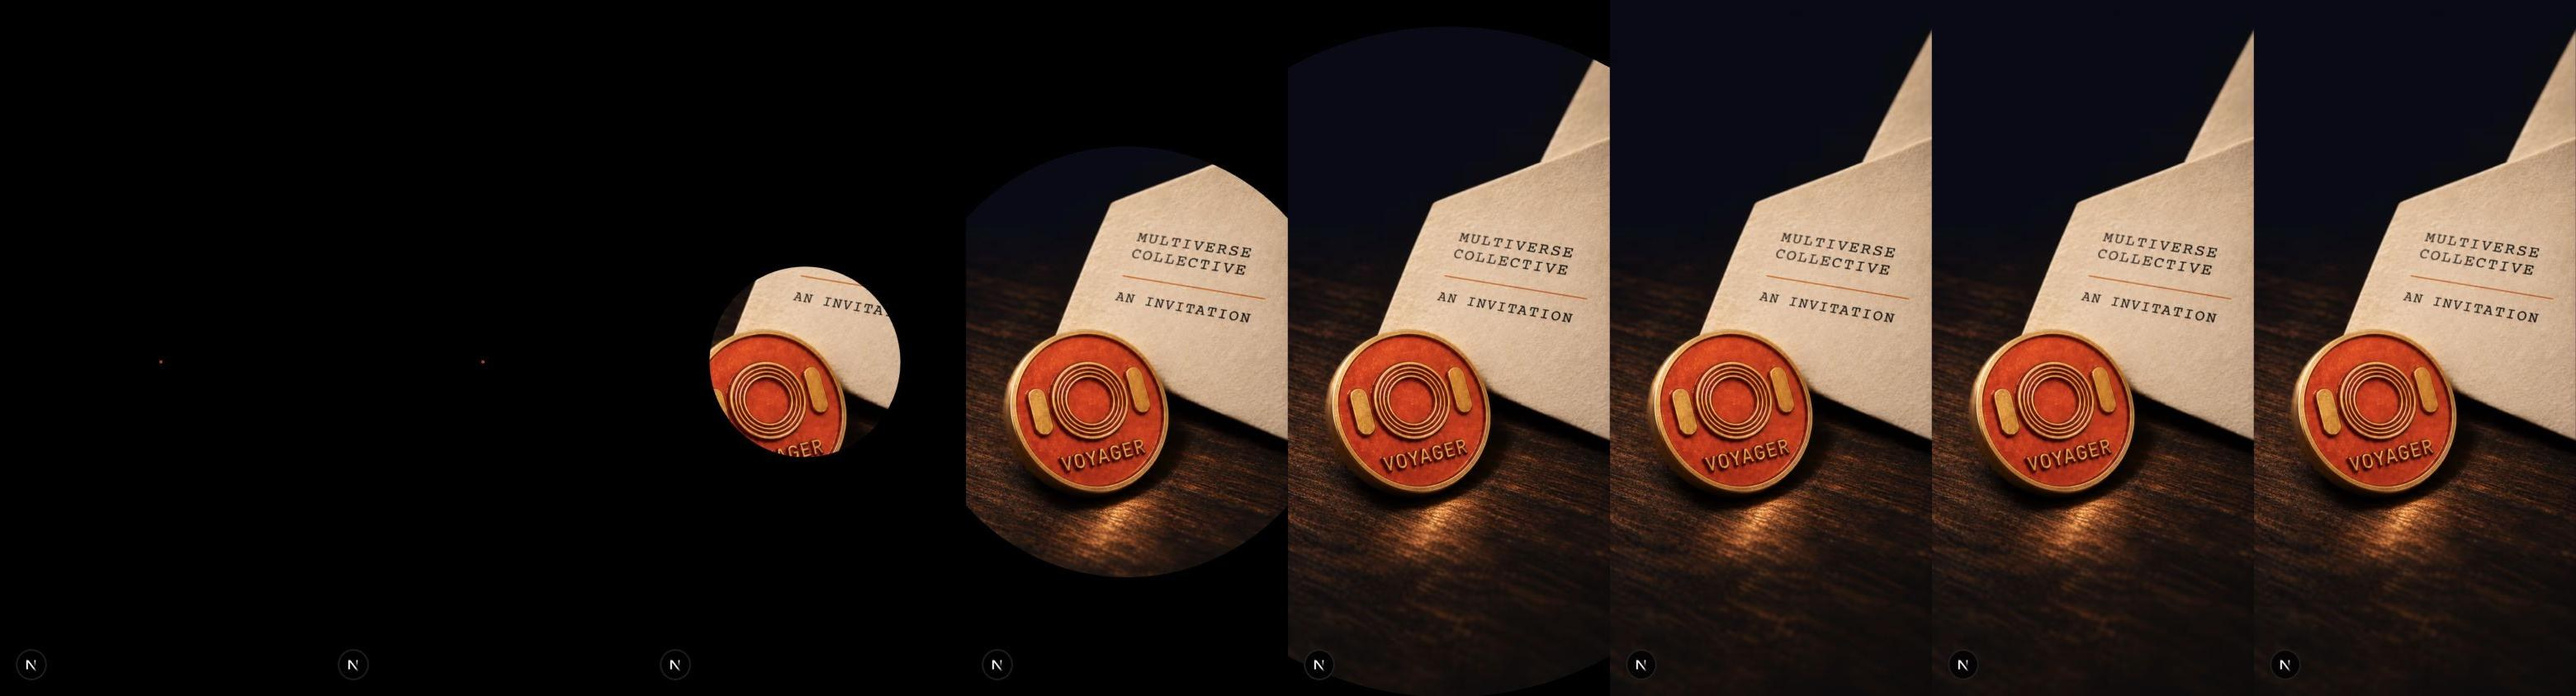
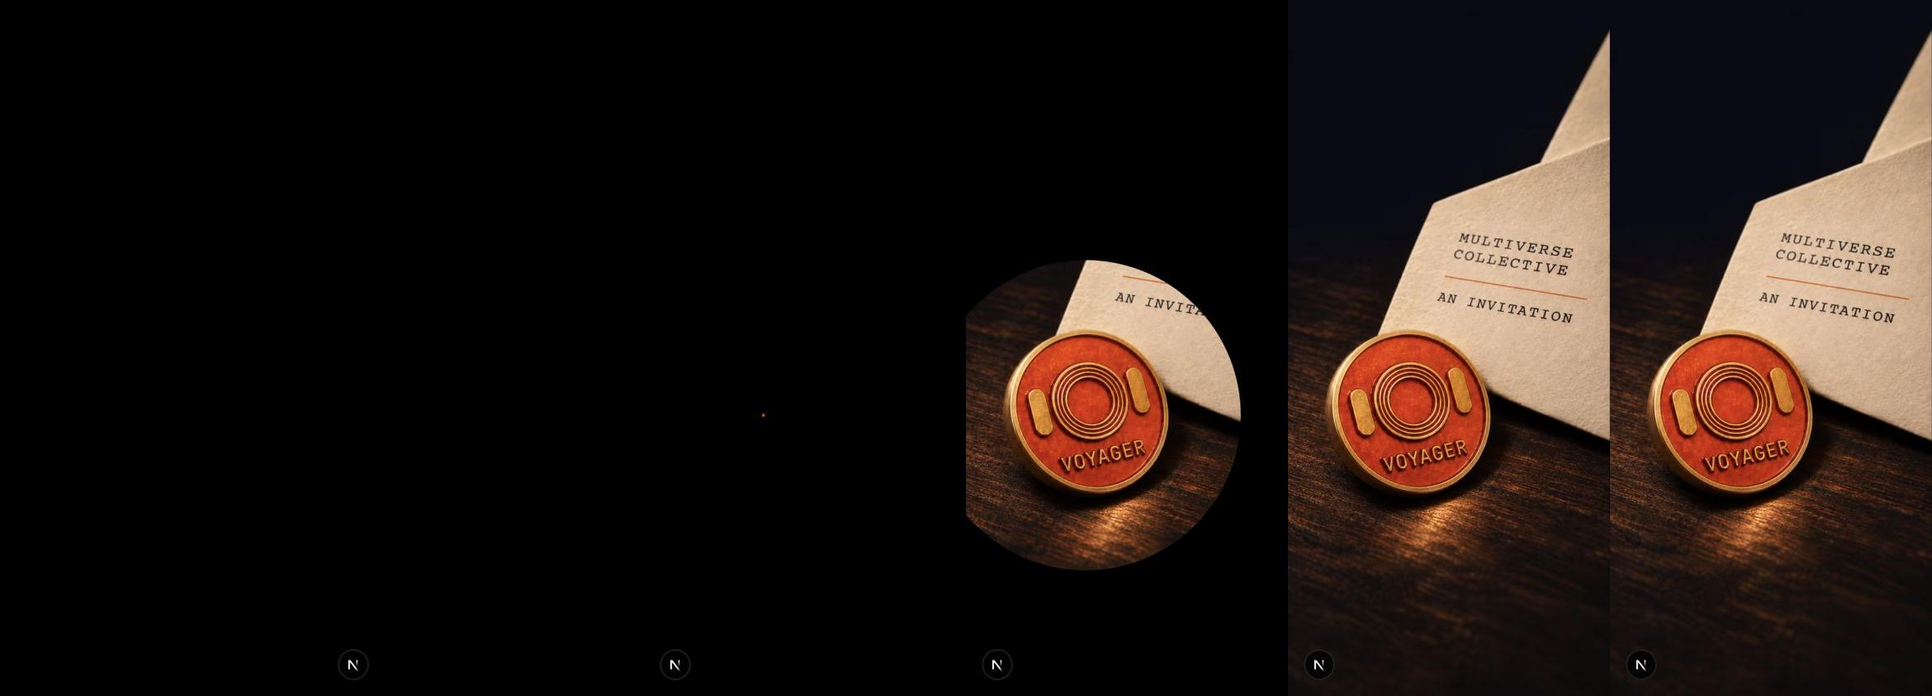
Center invitation reveal on badge and halve animation speed

Changed region(s): [[0.2496, 0.0616, 0.9983, 1.0], [0.9047, 0.8626, 0.9359, 0.8934]]

diff --git a/src/components/onboarding-invitation.module.css b/src/components/onboarding-invitation.module.css
@@ -11,7 +11,23 @@
 .scene {
   position: absolute;
   inset: 0;
+  container-type: size;
+}
+
+.reveal {
+  position: absolute;
+  inset: 0;
   background: var(--color-deep);
+  --badge-x: 37.1%;
+  --badge-y: 59.6%;
+}
+
+@supports (width: 1cqw) {
+  .reveal {
+    /* Badge center (316,1100) in the 852×1846 image, cover-fit and center/top crop. */
+    --badge-x: calc(50cqw - max(12.91cqw, 5.96cqh));
+    --badge-y: max(129.11cqw, 59.59cqh);
+  }
 }
 
 .scene img { object-fit: cover; object-position: center top; }
@@ -45,17 +61,17 @@
 .emailHint { max-width: 110px; font-size: var(--fs-caption); line-height: 1.4; }
 
 /* Functional scene reveal, requested by the user; no decorative glow or sound. */
-.invitation[data-phase='loading'] .scene { clip-path: circle(0 at 50% 52%); }
+.invitation[data-phase='loading'] .reveal { clip-path: circle(0 at var(--badge-x) var(--badge-y)); }
 .invitation[data-phase='loading'] :is(.copy, .primary, .emailRow) { visibility: hidden; }
-.invitation[data-phase='opening'] .scene { animation: reveal 1200ms cubic-bezier(.22,.7,.22,1) both; }
-.invitation[data-phase='opening'] .copy { animation: appear 350ms 650ms both; }
-.invitation[data-phase='opening'] .primary { animation: appear 300ms 1050ms both; }
-.invitation[data-phase='opening'] .emailRow { animation: appear 300ms 1250ms both; }
+.invitation[data-phase='opening'] .reveal { animation: reveal 2400ms cubic-bezier(.22,.7,.22,1) both; }
+.invitation[data-phase='opening'] .copy { animation: appear 700ms 1300ms both; }
+.invitation[data-phase='opening'] .primary { animation: appear 600ms 2100ms both; }
+.invitation[data-phase='opening'] .emailRow { animation: appear 600ms 2500ms both; }
 
 @keyframes reveal {
-  0%, 12% { clip-path: circle(0 at 50% 52%); }
-  20% { clip-path: circle(2px at 50% 52%); }
-  100% { clip-path: circle(150vmax at 50% 52%); }
+  0%, 12% { clip-path: circle(0 at var(--badge-x) var(--badge-y)); }
+  20% { clip-path: circle(2px at var(--badge-x) var(--badge-y)); }
+  100% { clip-path: circle(150vmax at var(--badge-x) var(--badge-y)); }
 }
 @keyframes appear {
   0% { opacity: 0; transform: translateY(8px); visibility: hidden; }
@@ -74,6 +90,6 @@
   .layout { padding-inline: 20px; padding-bottom: max(24px, env(safe-area-inset-bottom)); }
 }
 @media (prefers-reduced-motion: reduce) {
-  .invitation[data-phase] .scene { animation: none; clip-path: none; }
+  .invitation[data-phase] .reveal { animation: none; clip-path: none; }
   .invitation[data-phase] :is(.copy, .primary, .emailRow) { animation: none; visibility: visible; opacity: 1; transform: none; }
 }

diff --git a/src/components/onboarding-invitation.tsx b/src/components/onboarding-invitation.tsx
@@ -16,17 +16,19 @@ export function OnboardingInvitation({ email, provider, onInitiation, onStartOve
 
   useEffect(() => {
     if (phase === 'complete') return
-    const timeout = setTimeout(() => setPhase('complete'), phase === 'loading' ? 1200 : 2200)
+    const timeout = setTimeout(() => setPhase('complete'), phase === 'loading' ? 1200 : 4400)
     return () => clearTimeout(timeout)
   }, [phase])
 
   return <section className={s.invitation} data-phase={phase} aria-labelledby="invitation-title"
     onKeyDown={event => { if (event.key === 'Escape') setPhase('complete') }}>
     <div className={s.scene} aria-hidden="true">
-      <Image src="/assets/onboarding/invitation-scene-20261120.png" alt="" fill preload
-        sizes="(min-width: 640px) 480px, 100vw"
-        onLoad={() => setPhase(current => current === 'loading' ? 'opening' : current)}
-        onError={() => setPhase('complete')} />
+      <div className={s.reveal}>
+        <Image src="/assets/onboarding/invitation-scene-20261120.png" alt="" fill preload
+          sizes="(min-width: 640px) 480px, 100vw"
+          onLoad={() => setPhase(current => current === 'loading' ? 'opening' : current)}
+          onError={() => setPhase('complete')} />
+      </div>
     </div>
     <div className={s.layout}>
       <header className={s.copy}>

diff --git a/docs/design/onboarding-invitation-20261120/design-qa.md b/docs/design/onboarding-invitation-20261120/design-qa.md
@@ -13,7 +13,7 @@
 - Implementation: [mobile screenshot](mobile-final.png), 390×844 pixels at a 390×844 CSS viewport, 1× screenshot density, local production build at `/dev/onboarding-success?variant=test&presentation=1`.
 - [Combined full-view comparison](comparison.jpg): source normalized to 390×844 next to the equal-size rendered implementation, 780×844 total.
 - [Focused footer comparison](footer-comparison.jpg): actual source and implementation bottom 200px together, confirming action hierarchy, activation wording and mailbox entry.
-- [Entrance filmstrip](entrance-filmstrip.jpg): browser-captured frames show black, a center light point, then the expanding photographic aperture. Final copy and actions were observed after their delayed reveals.
+- [Entrance filmstrip](entrance-filmstrip.jpg): latest browser-captured frames show black, a light point at the badge center, then the aperture expanding around the badge. Final copy and actions were observed after their delayed reveals.
 - [Desktop](desktop-final.png): 1280×900 CSS viewport, centered 480px portrait composition with deep-blue surrounding space. [Short phone](narrow-final.png): 320×568.
 - State: unauthenticated QA fixture, `voyager@gmail.com`, test variant, completed reveal. No production submission, enrollment or payment.
 
@@ -32,7 +32,7 @@
 - Gmail target remains `https://mail.google.com/mail/`, opening in a separate tab. Existing provider mapping preserved.
 - Replay entrance remounts and replays; current/control fixture retains inbox-first guidance.
 - Fresh B production wiring retains the same click event and `/voyager-initiation?briefing=1` destination. Restored pending-email visits retain control presentation; assignment logic unchanged.
-- Image load/error and timeout fallback reviewed in code: slow image skips the reveal after 1200ms; opening has a 2200ms safety timeout. Escape can skip the entrance once focus is within it. Reduced motion makes all content immediately visible via CSS. OS reduced-motion setting and forced image failure were not toggled during browser verification.
+- Image load/error and timeout fallback reviewed in code: slow image skips the reveal after 1200ms; opening has a 4400ms safety timeout. Escape can skip the entrance once focus is within it. Reduced motion makes all content immediately visible via CSS. OS reduced-motion setting and forced image failure were not toggled during browser verification.
 - Browser error log query returned no errors for the final production-built fixture.
 
 **Implementation checklist**
@@ -47,5 +47,12 @@
 **Follow-up polish**
 
 - Real-device Safari acceptance and OS reduced-motion behavior remain device-level checks; no known blocking issue.
+
+**Motion revision — badge origin and half speed**
+
+- Latest user feedback replaces the screen-center origin with the badge center and doubles all animation durations and stagger delays. Scene reveal 1200→2400ms, heading 350/650→700/1300ms duration/delay, primary 300/1050→600/2100ms, mailbox 300/1250→600/2500ms. Full reveal finishes at 3100ms after image readiness.
+- Browser measurement from observed opening to complete: 3135ms in development, 3106ms in the final production build. Captured initial dot is around (145,503) at 390×844, aligning with the badge center. Revised filmstrip shows the badge at the center of the expanding circle. Final composition is unchanged; updated same-size source/render comparison reviewed with no new actionable P0/P1/P2 findings.
+- Source-space badge center is (316,1100) in the 852×1846 image. Container-relative coordinates account for the same center/top cover crop as the photo, keeping the origin aligned on wider/shorter layouts; percentage fallback remains for older browsers.
+- Safety timeout increased alongside the animation, avoiding premature completion. Slow-image fail-open timing and reduced-motion behavior remain immediate/unchanged.
 
 final result: passed

diff --git a/docs/design-system.md b/docs/design-system.md
@@ -392,4 +392,4 @@ Feed 分享入口修订（用户确认）：右下浮动入口使用「＋ Share
 
 ### 留资完成 B 组邀请函 · 2026-11-20
 
-用户确认的局部入场动效：仅 B 组本次成功留资后使用邀请函照片；先黑屏，再从画面中心附近的一个亮点向外揭开照片，随后出现标题、START INITIATION 和紧凑邮箱入口。单次约 1.55 秒，静音，不增加光晕或装饰 HUD。减少动态时直接显示完整页面；图片失败或加载超时也须显示可用操作。标题为 “Your initiation starts here.”，邮箱说明保留 “Activation email sent to”。短屏以实色深蓝承载文案和操作以确保可读；移动竖屏为主要验收对象。返回访问继续使用原邮箱引导；分组、指标和购买路径不变。实现与验收见 [邀请函 QA](design/onboarding-invitation-20261120/design-qa.md)。
+用户确认的局部入场动效：仅 B 组本次成功留资后使用邀请函照片；先黑屏，再从 badge 中心的一个亮点向外揭开照片，随后出现标题、START INITIATION 和紧凑邮箱入口。按最新反馈，展开、淡入及其间隔均放慢为初版的两倍，单次约 3.1 秒；起点随照片 cover 裁切保持对准 badge。静音，不增加光晕或装饰 HUD。减少动态时直接显示完整页面；图片失败或加载超时也须显示可用操作。标题为 “Your initiation starts here.”，邮箱说明保留 “Activation email sent to”。短屏以实色深蓝承载文案和操作以确保可读；移动竖屏为主要验收对象。返回访问继续使用原邮箱引导；分组、指标和购买路径不变。实现与验收见 [邀请函 QA](design/onboarding-invitation-20261120/design-qa.md)。

diff --git a/design-qa.md b/design-qa.md
@@ -2,7 +2,7 @@
 
 ## Onboarding invitation preview · 2026-11-20
 
-Latest scoped report: [Invitation reveal QA](docs/design/onboarding-invitation-20261120/design-qa.md). Approved photo composition compared with the 390×844 browser render; black-to-point reveal, staggered controls, inbox editing, Briefing navigation, 320×568 and 1280×900 checked. Short-screen wrapping/contrast findings fixed and recaptured. Local production-built preview only; existing live experiment and schedule unchanged.
+Latest scoped report: [Invitation reveal QA](docs/design/onboarding-invitation-20261120/design-qa.md). Approved photo composition compared with the 390×844 browser render; badge-centered black-to-point reveal, staggered controls, inbox editing, Briefing navigation, 320×568 and 1280×900 checked. Latest revision doubles the original motion durations/delays to 3.1 seconds, verified at 3106ms in the production-built browser preview. Short-screen wrapping/contrast findings fixed and recaptured. Local production-built preview only; existing live experiment and schedule unchanged.
 
 final result: passed
 
